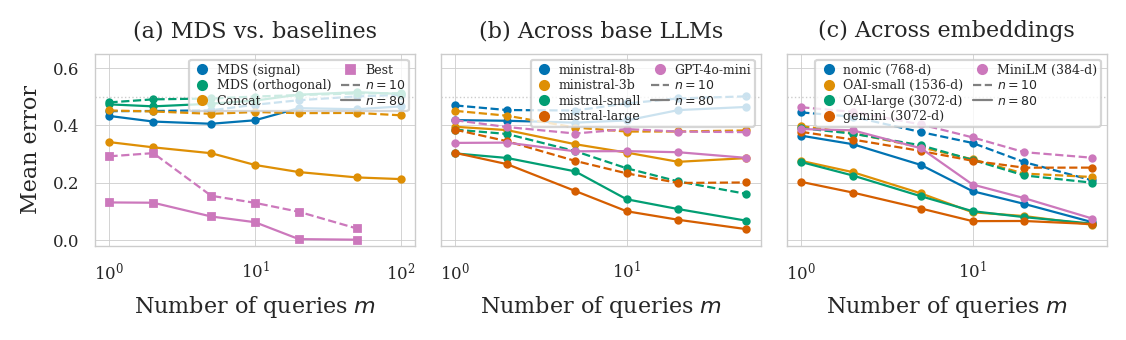
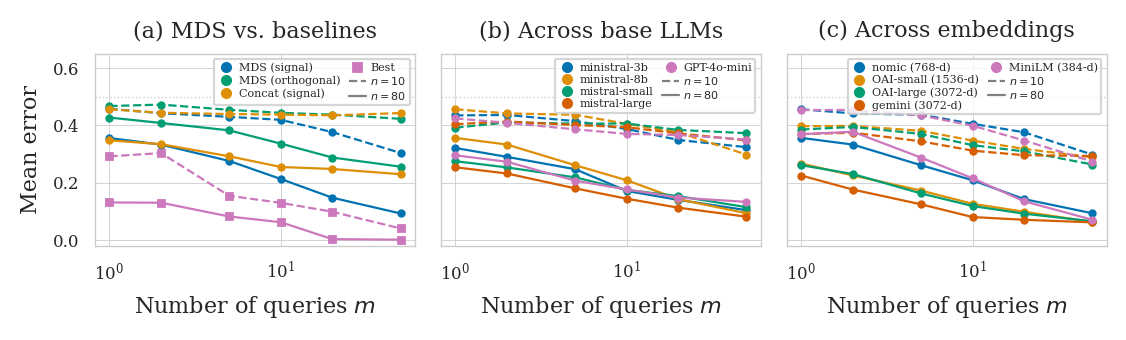
Fix MDS dimension selection and update figure 4
Run Zhu & Ghodsi profile likelihood on the full eigenvalue spectrum
instead of graspologic's truncated SVD (which only uses ceil(log2(n))
singular values). Label concat baseline as "signal" in panel (a),
reorder Mistral models by size, and adjust legend font sizes.

diff --git a/bbo/embedding/mds.py b/bbo/embedding/mds.py
@@ -2,21 +2,23 @@
 
 Wraps graspologic's ClassicalMDS (with dissimilarity='precomputed') to provide
 the same interface used throughout the BBO codebase. Automatic dimensionality
-selection uses the Zhu & Ghodsi (2006) profile likelihood method.
+selection uses the Zhu & Ghodsi (2006) profile likelihood method on the full
+eigenvalue spectrum (not the truncated spectrum that graspologic uses internally).
 """
 
 from typing import Optional
 
 import numpy as np
 from graspologic.embed import ClassicalMDS as _GraspologicMDS
-from graspologic.embed import select_dimension as _graspologic_select_dimension
+from graspologic.embed.svd import _compute_likelihood
 
 
 def select_dimension(eigenvalues: np.ndarray, n_elbows: int = 2) -> int:
     """Select embedding dimension via the profile likelihood method.
 
-    Thin wrapper around graspologic.embed.select_dimension that accepts
-    a 1-d eigenvalue array and returns the dimension at the last elbow.
+    Runs the Zhu & Ghodsi (2006) iterative elbow-finding algorithm on the
+    full eigenvalue spectrum. Each subsequent elbow expands beyond the
+    previous one.
 
     Parameters
     ----------
@@ -33,7 +35,17 @@ def select_dimension(eigenvalues: np.ndarray, n_elbows: int = 2) -> int:
     pos = eigenvalues[eigenvalues > 0]
     if len(pos) <= 1:
         return max(1, len(pos))
-    elbows, _ = _graspologic_select_dimension(pos, n_elbows=n_elbows)
+
+    idx = 0
+    elbows = []
+    for _ in range(n_elbows):
+        arr = pos[idx:]
+        if arr.size <= 1:
+            break
+        lq = _compute_likelihood(arr)
+        idx += np.argmax(lq).item() + 1
+        elbows.append(idx)
+
     if not elbows:
         return 1
     return elbows[-1]
@@ -42,7 +54,10 @@ def select_dimension(eigenvalues: np.ndarray, n_elbows: int = 2) -> int:
 class ClassicalMDS:
     """Classical (metric) multidimensional scaling on precomputed distances.
 
-    Delegates to graspologic.embed.ClassicalMDS with dissimilarity='precomputed'.
+    When n_components is None, selects dimensionality by running the Zhu &
+    Ghodsi profile likelihood method on the full eigenvalue spectrum of the
+    double-centered distance matrix, then delegates to graspologic for the
+    actual embedding.
 
     Parameters
     ----------
@@ -57,19 +72,35 @@ class ClassicalMDS:
     def __init__(self, n_components: Optional[int] = None, n_elbows: int = 2):
         self.n_components = n_components
         self.n_elbows = n_elbows
-        self._mds = _GraspologicMDS(
-            n_components=n_components,
-            n_elbows=n_elbows,
+
+    def _resolve_n_components(self, D: np.ndarray) -> int:
+        """Determine n_components from the full eigenvalue spectrum."""
+        n = D.shape[0]
+        H = np.eye(n) - np.ones((n, n)) / n
+        B = -0.5 * H @ (D ** 2) @ H
+        eigvals = np.linalg.eigvalsh(B)[::-1]
+        return select_dimension(eigvals, n_elbows=self.n_elbows)
+
+    def _build_mds(self, D: np.ndarray) -> _GraspologicMDS:
+        """Build graspologic MDS with resolved n_components."""
+        if self.n_components is None:
+            nc = self._resolve_n_components(D)
+        else:
+            nc = self.n_components
+        return _GraspologicMDS(
+            n_components=nc,
             dissimilarity="precomputed",
         )
 
     def fit(self, D: np.ndarray) -> "ClassicalMDS":
         """Fit MDS from a symmetric distance matrix."""
+        self._mds = self._build_mds(D)
         self._mds.fit(D)
         return self
 
     def fit_transform(self, D: np.ndarray) -> np.ndarray:
         """Fit MDS and return the embedding coordinates."""
+        self._mds = self._build_mds(D)
         return self._mds.fit_transform(D)
 
     @property

diff --git a/scripts/plot_system_prompt_figure.py b/scripts/plot_system_prompt_figure.py
@@ -116,7 +116,7 @@ def plot_figure(csv_path, embed_csv_path=None, oracle_csv_path=None,
     method_cfg = {
         "mds_relevant":   {"color": PALETTE[0], "label": "MDS (signal)"},
         "mds_orthogonal": {"color": PALETTE[2], "label": "MDS (orthogonal)"},
-        "concat":         {"color": PALETTE[1], "label": "Concat"},
+        "concat":         {"color": PALETTE[1], "label": "Concat (signal)"},
     }
 
     for method, cfg in method_cfg.items():
@@ -151,12 +151,12 @@ def plot_figure(csv_path, embed_csv_path=None, oracle_csv_path=None,
                                   markersize=3, label="Best"))
     leg_n = [Line2D([0], [0], color="0.5", linestyle="--", lw=0.8, label="$n=10$"),
              Line2D([0], [0], color="0.5", linestyle="-", lw=0.8, label="$n=80$")]
-    ax_a.legend(handles=leg_methods + leg_n, loc="upper right", ncol=2, fontsize=4.5)
+    ax_a.legend(handles=leg_methods + leg_n, loc="upper right", ncol=2, fontsize=4)
 
     # ── Center panel: across base models ──
     base_models = [
-        ("ministral-8b", "ministral-8b"),
         ("ministral-3b", "ministral-3b"),
+        ("ministral-8b", "ministral-8b"),
         ("mistral-small", "mistral-small"),
         ("mistral-large", "mistral-large"),
         ("gpt-4o-mini", "GPT-4o-mini"),
@@ -196,7 +196,7 @@ def plot_figure(csv_path, embed_csv_path=None, oracle_csv_path=None,
               if not df_base[df_base["base_model"] == bm_key].empty]
     leg_n2 = [Line2D([0], [0], color="0.5", linestyle="--", lw=0.8, label="$n=10$"),
               Line2D([0], [0], color="0.5", linestyle="-", lw=0.8, label="$n=80$")]
-    ax_b.legend(handles=leg_bm + leg_n2, loc="upper right", ncol=2, fontsize=4.5)
+    ax_b.legend(handles=leg_bm + leg_n2, loc="upper right", ncol=2, fontsize=4)
 
     # ── Right panel: across embedding models ──
     embed_models = [
@@ -239,7 +239,7 @@ def plot_figure(csv_path, embed_csv_path=None, oracle_csv_path=None,
               if not df_embed[df_embed["embed_model"] == embed_models[i][0]].empty]
     leg_n3 = [Line2D([0], [0], color="0.5", linestyle="--", lw=0.8, label="$n=10$"),
               Line2D([0], [0], color="0.5", linestyle="-", lw=0.8, label="$n=80$")]
-    ax_c.legend(handles=leg_em + leg_n3, loc="upper right", ncol=2, fontsize=4.5)
+    ax_c.legend(handles=leg_em + leg_n3, loc="upper right", ncol=2, fontsize=4)
 
     Path(output_path).parent.mkdir(parents=True, exist_ok=True)
     fig.savefig(output_path)
